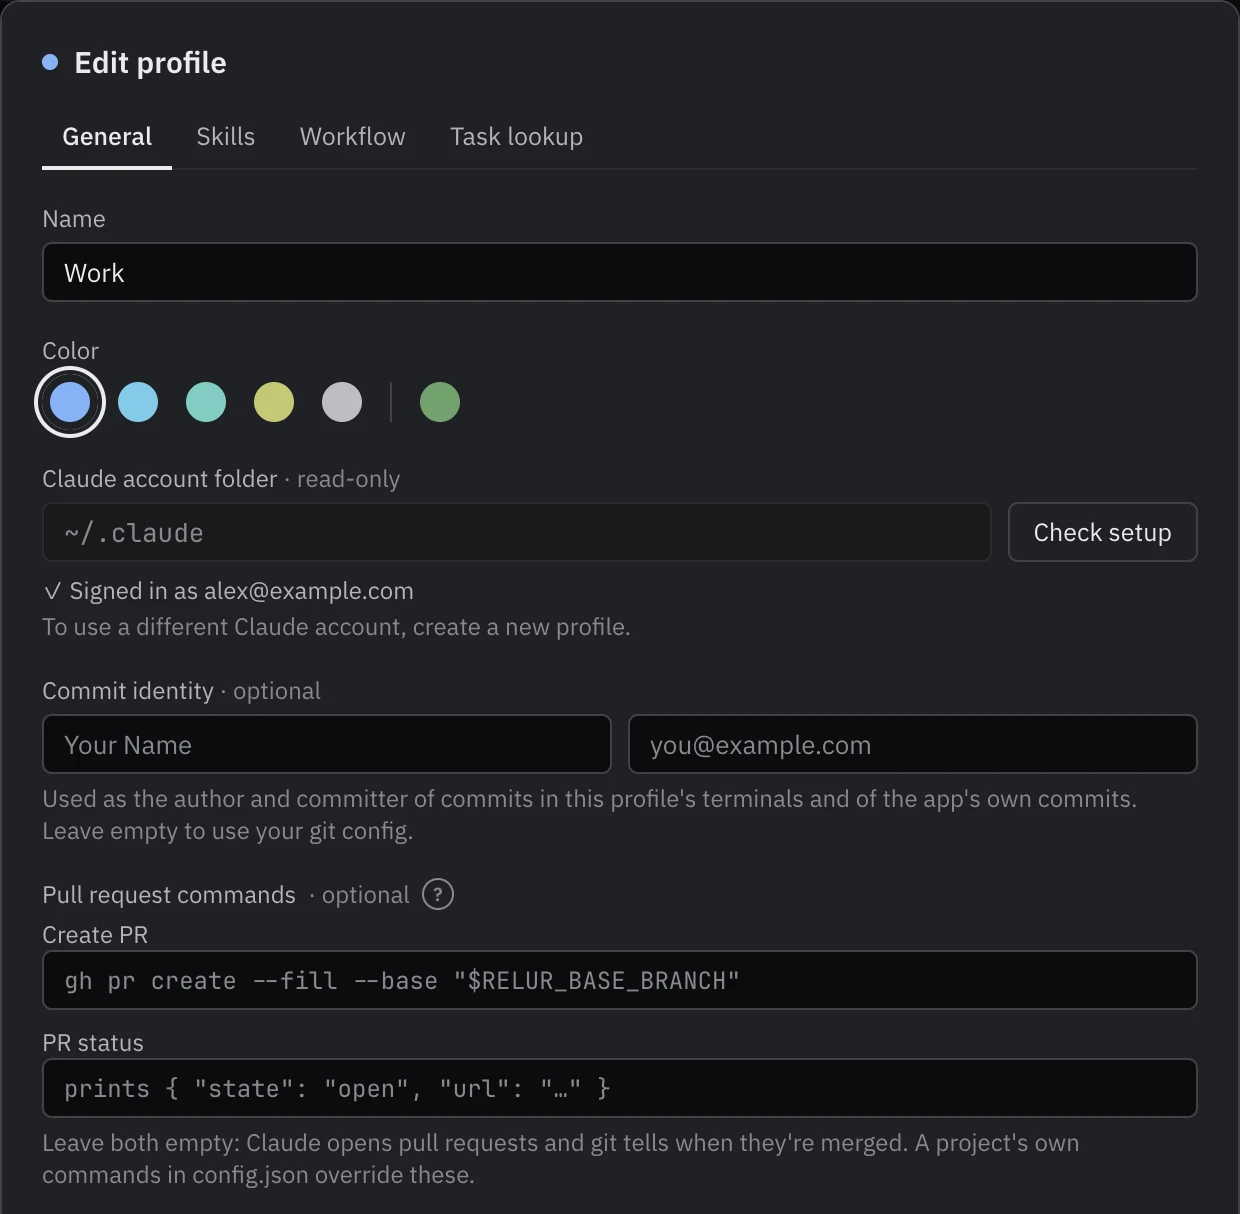
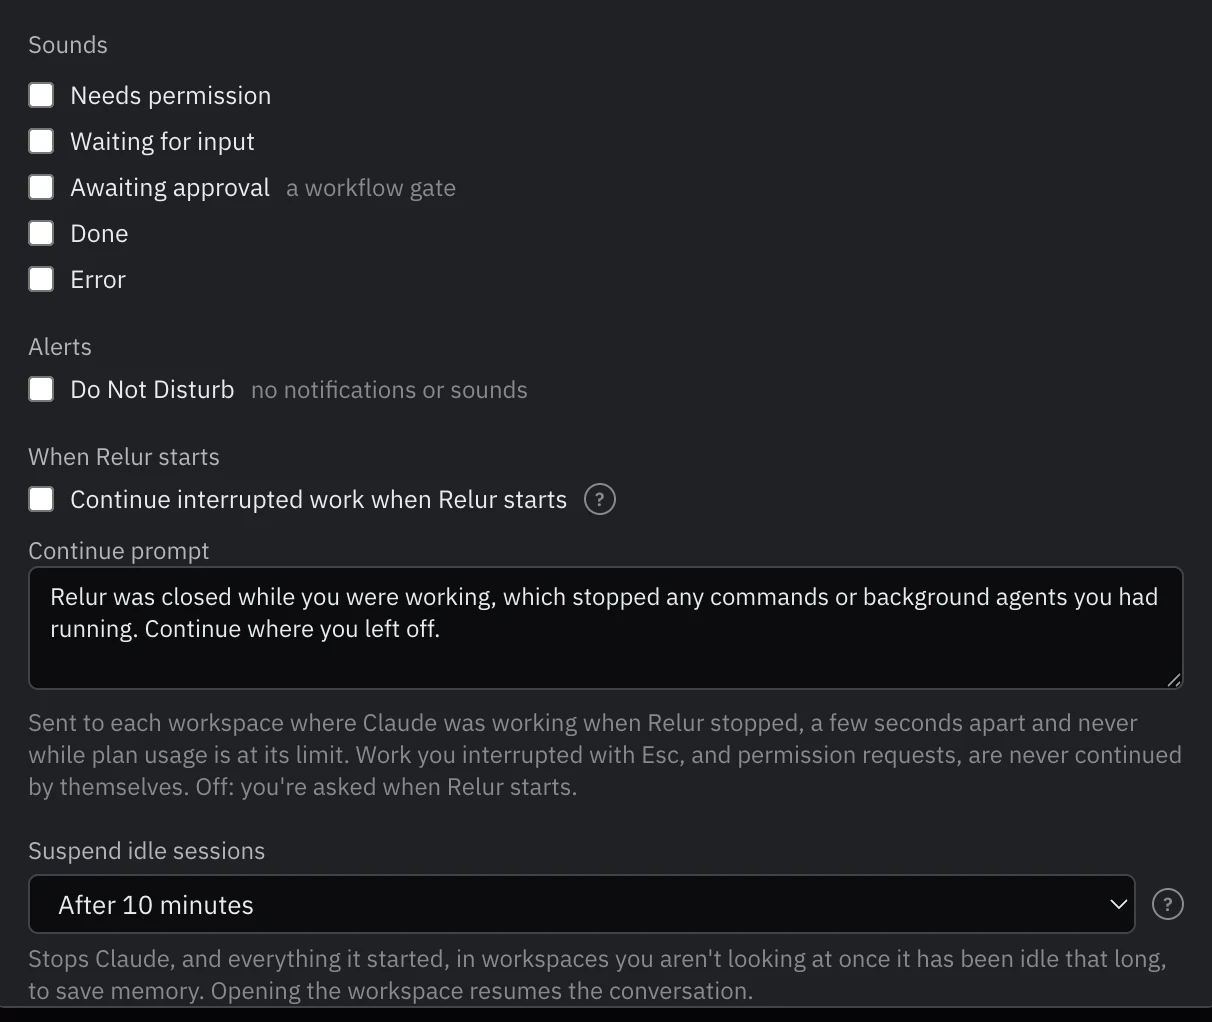
Guide screenshots: suspension on by default
Both profiles of the screenshot fixture write suspendIdleMin, the new
default of 10 minutes, so the one-time notice about it never shows (the
script fails if it does). Edit profile's screenshot shows its lower
settings, down to Suspend idle sessions at After 10 minutes, and the
screenshots are retaken.

diff --git a/scripts/guide-screenshots.ts b/scripts/guide-screenshots.ts
@@ -48,8 +48,11 @@ const HEIGHT = 800;
 /** The Guide's column is 660 px; images are shown at half their pixel size. */
 const MAX_PIXEL_WIDTH = 1320;
 const MAX_BYTES = 150 * 1024;
-/** A minute lasts this long here, so "suspend after 5 minutes" is 10 seconds. */
-const MINUTE_MS = 2000;
+/** A minute lasts this long here, so "suspend after 10 minutes" is 10 seconds. */
+const MINUTE_MS = 1000;
+/** Both profiles' suspend delay, the default (spec §9.8). Written, so the
+ * one-time "now suspends" notice for profiles without one never shows. */
+const SUSPEND_MIN = 10;
 
 /** The memory panel's story: about 2.4 GB, one workspace with a big dev server (MB). */
 const MEMORY = {
@@ -324,7 +327,7 @@ async function main() {
             claude,
             env: {},
             defaults: { baseBranch: 'main' },
-            suspendIdleMin: 5,
+            suspendIdleMin: SUSPEND_MIN,
             workflow: {
               file: 'docs/specs/*/specification.md',
               match: { field: 'branch', equals: 'branch' },
@@ -365,6 +368,7 @@ async function main() {
             claude,
             env: { CLAUDE_CONFIG_DIR: '~/.claude-personal' },
             defaults: { baseBranch: 'main' },
+            suspendIdleMin: SUSPEND_MIN,
           },
         ],
         projects: [
@@ -408,6 +412,9 @@ async function main() {
     const noThanks = `[...document.querySelectorAll('button')].find((b) => b.textContent === 'No thanks')`;
     await page.waitFor(`!!${noThanks}`, 'the update question');
     await page.eval(`${noThanks}.click()`);
+    if (await page.eval<boolean>(`!!document.querySelector('[data-suspend-notice]')`)) {
+      throw new Error('the one-time suspend notice shows: give every profile a suspendIdleMin');
+    }
 
     const control = async (id: string, command: string) => {
       const fifo = path.join(home, 'ctl', id);
@@ -533,11 +540,11 @@ async function main() {
       'the sidebar states',
       20_000,
     );
-    // ABC-133 is idle and not shown: suspended after its 5 "minutes".
+    // ABC-133 is idle and not shown: suspended after its 10 "minutes".
     await page.waitFor(
       `(${rowOf('ABC-133')})?.dataset.suspended === 'true'`,
       'ABC-133 suspended',
-      5 * MINUTE_MS + 30_000,
+      SUSPEND_MIN * MINUTE_MS + 30_000,
     );
     await sleep(1500);
 
@@ -660,12 +667,22 @@ async function main() {
         );
       }
       await page.eval('document.activeElement?.blur()');
+      // Down to Suspend idle sessions, at its default.
+      await page.eval(
+        `document.querySelector('dialog[open] [data-suspend-settings]').scrollIntoView({ block: 'end' })`,
+      );
       await sleep(400);
     };
     await openEdit();
+    // Its lower settings, down to Suspend idle sessions: the dialog is taller than the window.
     await shoot(
       'edit-profile',
-      { selectors: ['dialog[open]'], bottom: 'dialog[open] [data-pr-commands]' },
+      {
+        selectors: ['dialog[open] [data-sounds]', 'dialog[open] [data-suspend-settings]'],
+        pad: 14,
+        bottom: 'dialog[open] [data-suspend-settings]',
+        below: 8,
+      },
       openEdit,
     );
     await pressKey(page, 'Escape');

diff --git a/docs/SPEC.md b/docs/SPEC.md
@@ -560,7 +560,7 @@ The in-app user guide (design: the Guide section of `docs/components.md`).
 - **Layout:** it replaces the sidebar and main area: a table of contents with search (`⌘F`; Esc clears, a second Esc returns to the article), the article with an eyebrow, title and blocks, **On this page** for pages with three or more `##` headings when the window is at least 900px wide, and previous/next cards in table-of-contents order. Below 760px the contents move into a **Contents** panel.
 - **Content:** one Markdown file per page in `src/renderer/src/guide/pages/`, shipped with the app (no network), in the sections of the design brief. The text describes the built app; unbuilt features (multiple windows, the task picker) are left out. Product, command and folder names and every key are placeholders filled at render time from `BRAND` and the shortcut definitions (`{{app}}`, `{{cli}}`, `{{env:PORT}}`, `{{key:newWorkspace}}` for a shortcut's first key, `{{keys:workspaceStep}}` for all of them, `{{reveal}}` for Reveal in Finder or Show in folder, `{{configDir}}`, …), and `{{mac}}…{{/mac}}` and `{{other}}…{{/other}}` keep text to macOS or to Linux and Windows. Pages shown on Linux have no ⌘ ⌥ ⇧ ⌃ symbols and don't mention Finder or the Dock (a test checks), and the Linux page covers installing, what differs, FUSE, the sandbox, keys an input method takes, Wayland and the inotify limit. so `check:name` stays clean and a rename stays a one-file change. The Keyboard shortcuts page is generated from the definitions.
 - **Blocks:** headings, paragraphs, lists, tables, inline code, bold, links (relative `page#section` links open in the Guide, `http(s)` ones in the browser, `app:report-bug` and `app:request-feature` do what the Help menu's items of those names do), `<kbd>`, code blocks with Copy (comment lines aren't copied), `:::tip`, `:::note`, `:::warning [title]`, `:::keys`, `:::glyphs` (the real Status glyph component), `:::diagram` (Profile → Project → Workspace) and screenshots.
-- **Screenshots:** a line of its own `![alt](images/<name>.webp)` shows a screenshot of the app, from `src/renderer/src/guide/images/<name>-dark.webp` and `<name>-light.webp`, in the variant of the app's theme (it switches with it), at half its pixel size (taken at 2x, at most 1320 px wide, so never wider than the 660px column), with a border and its alt text as the caption (hidden from screen readers, which read the alt text). Ten pages have one: The sidebar, Home, New workspace (a task lookup), Finishing work (the Changes panel), Copy responses (the Responses panel), Memory (the memory panel), Suspending idle sessions (the Workspaces table with a suspended workspace), Workflows (a gate with the stepper), Edit profile and Tasks across repositories (the repository chips). `npm run guide:screenshots` (`scripts/guide-screenshots.ts`, after `npm run build`) takes them all, or some with `--only=<name,…>`: the production build in a throwaway home folder with a stand-in `claude` (`scripts/guide-screenshots/fake-claude.sh`), made-up projects (web-app, api-service, shared-ui), tickets (ABC-133 to ABC-160) and people, a 1280×800 window at 2x, each in dark and light. It never reads the user's home folder, profiles, settings or repositories, and refuses to run unless the `claude` it would find is the stand-in. Memory numbers are fixed through `<PREFIX>TEST_MEMORY` (§6.14), and idle sessions are suspended within seconds through `<PREFIX>SUSPEND_MINUTE_MS` (§9.8); only clocks ("for 2 min") differ between runs. Each file is WebP at the best quality under 150 KB, about 0.9 MB for all twenty. The steps are in CONTRIBUTING.
+- **Screenshots:** a line of its own `![alt](images/<name>.webp)` shows a screenshot of the app, from `src/renderer/src/guide/images/<name>-dark.webp` and `<name>-light.webp`, in the variant of the app's theme (it switches with it), at half its pixel size (taken at 2x, at most 1320 px wide, so never wider than the 660px column), with a border and its alt text as the caption (hidden from screen readers, which read the alt text). Ten pages have one: The sidebar, Home, New workspace (a task lookup), Finishing work (the Changes panel), Copy responses (the Responses panel), Memory (the memory panel), Suspending idle sessions (the Workspaces table with a suspended workspace), Workflows (a gate with the stepper), Edit profile (its lower settings, down to Suspend idle sessions) and Tasks across repositories (the repository chips). `npm run guide:screenshots` (`scripts/guide-screenshots.ts`, after `npm run build`) takes them all, or some with `--only=<name,…>`: the production build in a throwaway home folder with a stand-in `claude` (`scripts/guide-screenshots/fake-claude.sh`), made-up projects (web-app, api-service, shared-ui), tickets (ABC-133 to ABC-160) and people, a 1280×800 window at 2x, each in dark and light. It never reads the user's home folder, profiles, settings or repositories, and refuses to run unless the `claude` it would find is the stand-in. Memory numbers are fixed through `<PREFIX>TEST_MEMORY` (§6.14), and idle sessions are suspended within seconds through `<PREFIX>SUSPEND_MINUTE_MS` (§9.8). Every profile has `suspendIdleMin` written (the default, 10), so the one-time notice about the new default never shows, and the script fails if it does; only clocks ("for 2 min") differ between runs. Each file is WebP at the best quality under 150 KB, about 0.9 MB for all twenty. The steps are in CONTRIBUTING.
 - **The Guide for the web:** `npm run guide:export` (`scripts/guide-export.ts`, the logic in `scripts/lib/guide-export.ts`) writes the Guide as plain Markdown for a reader on any platform to `dist/guide/` (`--out=<dir>` elsewhere): one `<page>.md` per page, the screenshots in `images/` (both variants; the Markdown shows the light one), and `index.json` with `app`, `version` (from `package.json`) and the sections in order, each with its pages in order: `id`, `file`, `title`, `description` (the first sentence of the page's first paragraph, plain text; two when the first is under 40 characters), `headings` (`id`, `text`) and `images` (`name`, `alt`, `light`, `dark`). `--archive` also writes `dist/<displayName>-guide.tar.gz` of that folder. Placeholders: names from `BRAND`; anything that differs by platform reads "⌘N (Linux: Ctrl+Shift+N)", and inside `<kbd>` or `` `code` `` each platform has its own (`<kbd>⌘N</kbd> (Linux: <kbd>Ctrl+Shift+N</kbd>)`), the settings folder too. `{{mac}}`/`{{other}}` parts: a part on lines of its own gets "On macOS: " or "On Linux: " before each paragraph (not before a heading, a list, a table or code, nor where it already starts with "On macOS"/"On Linux"); a pair of whole sentences inside a paragraph gets the same labels inline; a pair inside a sentence reads "macOS text (Linux: Linux text)"; a lone part inside a sentence "(on macOS: …)". A code block must read the same on both platforms (the export fails otherwise). `:::tip`/`:::note`/`:::warning` become quotes with their title in bold, `:::keys` and `:::glyphs` tables, `:::diagram` one line (Profile → has → Project → has → Workspace), and the Keyboard shortcuts page a table per group with a macOS and a Linux column. Links between pages become `<page>.md#section`, and every `##` heading has an `<a id="…">` before it with the Guide's own anchor (GitHub's ids differ for headings with apostrophes); `app:report-bug` and `app:request-feature` become the issue forms' URLs. **Tests:** no placeholder or `:::` block is left, every link between pages and every anchor has its target, every screenshot is copied in both variants, `index.json` follows the Guide's sections and pages in order with every title and description, keys and folders are given for both platforms, and each labelling rule.
 - **Deep links:** "?" buttons open a page at a section: the usage meter (Plan usage › Session and Week), the setup check header, Edit profile's status line field and its continue setting, the worktree folder choice in Add project and the project view, Install Command Line Tool…, the project's Setup tab, New workspace's Task field and Also in, Link another repository, Delete workspace, the Skills and Workflow tabs (Edit profile and the project view), the workflow preview, and Other worktrees. The section is scrolled to 28px from the top and marked for 2.6 s ("Linked"), and **← Back to <where it came from>** (`⌘[`) returns there. A "?" in a dialog closes the dialog first.
 - **Team setup page:** **Set up your team's skills and workflow** (`team-setup`, in Getting started) walks through the setup in order: the skills source, the projects' repositories folder, the base branch, the workflow (status file, statuses and gates, title field, Document label), the Start prompt and task lookup, and a first task. The Skills and Workflow tabs (Edit profile and the project's) link to it: **Set up your team's skills and workflow, step by step**.

diff --git a/src/renderer/src/guide/pages/edit-profile.md b/src/renderer/src/guide/pages/edit-profile.md
@@ -2,7 +2,7 @@
 
 Right-click a profile tab and choose **Edit profile…**. It has four tabs: **General**, with the settings below, **Skills**, with the profile's [skill sources](skills#skill-sources), **Workflow**, with its [workflow](workflows#setting-it-up) and its [Start prompt](workflows#the-start-prompt), and **Task lookup**, with its [task lookup](workflows#task-lookup). General saves with **Save**; Workflow and Task lookup have their own save buttons.
 
-![Edit profile on its General tab: name, color, the read-only Claude account folder with who is signed in, commit identity and pull request commands.](images/edit-profile.webp)
+![Edit profile's General tab, further down: the sounds for each event, Do Not Disturb, continuing interrupted work at start with its prompt, and Suspend idle sessions at its default, After 10 minutes](images/edit-profile.webp)
 
 | Setting | What it does |
 | --- | --- |
